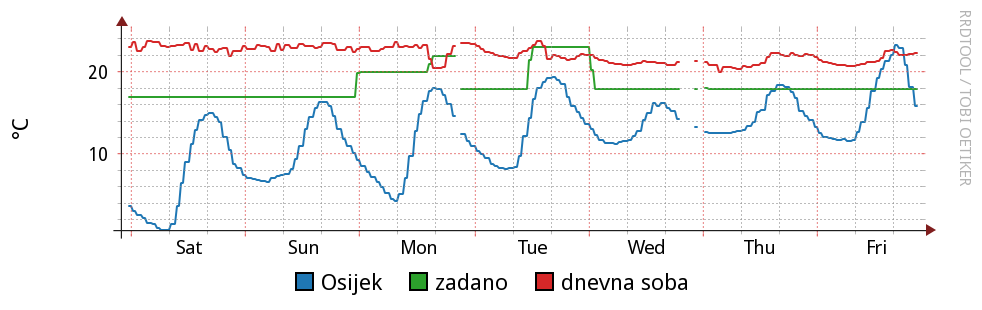
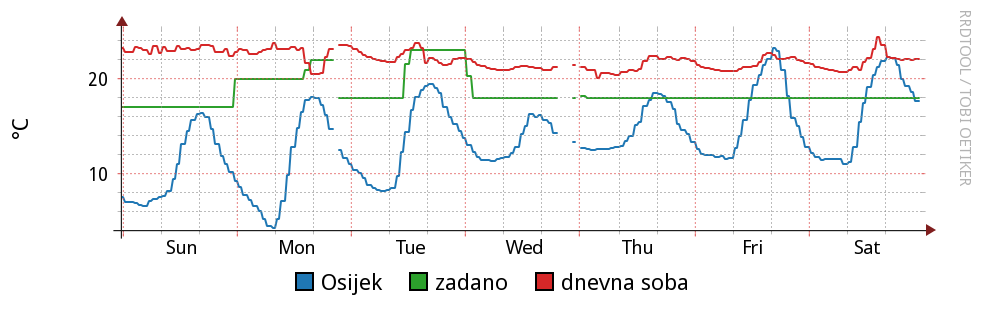
added carousel for viewing also of week/month temp graphs

diff --git a/index.html b/index.html
@@ -27,8 +27,8 @@
     <div class="container fill">
 
       <div id="error" class="alert alert-danger hidden fade">
-        <button type="button" id="error_close" class="close">&times;</button>
-        <strong>Greška!</strong> Za odabranu funkciju potrebno je odobrenje.
+        <button type="button" id="error_close" class="close">&times;</button> <strong>Greška!</strong>
+        Za odabranu funkciju potrebno je odobrenje.
       </div>
 
       <div class="modal fade" id="progress" tabindex="-1" role="dialog" aria-labelledby="progressLabel" aria-hidden="true">
@@ -42,8 +42,28 @@
       </div>
 
       <div id="temperatures_graph">
-        <img src="assets-local/img/temperatures_graph.png" />
+        <div id="myCarousel" class="carousel slide">
+          <div class="carousel-inner">
+            <div id="graph_day" class="item active">
+              <img src="assets-local/img/temperatures_graph.png" title="dnevni pogled"/>
+            </div>
+            <div id="graph_week" class="item">
+              <img src="assets-local/img/temperatures_graph_week.png" title="tjedni pogled"/>
+            </div>
+            <div id="graph_month" class="item">
+              <img src="assets-local/img/temperatures_graph_month.png" title="mjesecni pogled"/>
+            </div>
+          </div>
+
+          <a class="left carousel-control" href="#myCarousel" data-slide="prev">
+            <span class="glyphicon glyphicon-circle-arrow-left"></span>
+          </a>
+          <a class="right carousel-control" href="#myCarousel" data-slide="next">
+            <span class="glyphicon glyphicon-circle-arrow-right"></span>
+          </a>
+        </div>
       </div>
+
       <div class="row">
         <div class="col-md-4">
           Osijek:

diff --git a/assets-local/js/myclient.js b/assets-local/js/myclient.js
@@ -11,8 +11,17 @@ var refreshImage = function(cb) {
   }).done(function(updated) {
     console.log('/refresh_image API response received: ' + updated);
     if (updated) {
-      $("#temperatures_graph").html($("<img />", {
-        src: "assets-local/img/temperatures_graph.png"
+      $("#graph_day").html($("<img />", {
+        src: "assets-local/img/temperatures_graph.png",
+        title: "dnevni pogled"
+      }));
+      $("#graph_week").html($("<img />", {
+        src: "assets-local/img/temperatures_graph_week.png",
+        title: "tjedni pogled"
+      }));
+      $("#graph_month").html($("<img />", {
+        src: "assets-local/img/temperatures_graph_month.png",
+        title: "mjesecni pogled"
       }));
       lastRefreshed = new Date().toLocaleString();
     }
@@ -115,12 +124,20 @@ var isSwitchOn = function() {
 
 
 $(document).ready(function() {
+  $('.carousel').carousel();
+
+  $(".carousel-control").hover(function() {
+    $(this).toggleClass('is-hover');
+  });
+
   updateSwitchState();
 
   refreshData();
 
   $("#temperatures_graph").click(function() {
-    refreshData();
+    if (!$('.carousel-control').hasClass('is-hover')) {
+      refreshData();
+    }
   });
 
   $('#temp_preset_dec').click(function() {

diff --git a/assets-local/css/local.css b/assets-local/css/local.css
@@ -6,6 +6,27 @@ body {
   padding-top: 10px;
 }
 
+.carousel-control {
+  width: 5%;
+  top: 75%;
+  font-size: 30px;
+  opacity: 0.15;
+  filter: alpha(opacity=15);
+}
+.carousel-control.left {
+  color: #000;
+  background-image: none;
+}
+.carousel-control.right {
+  color: #000;
+  background-image: none;
+}
+.carousel-control:hover,
+.carousel-control:focus {
+  opacity: 0.7;
+  filter: alpha(opacity=70);
+}
+
 #temperatures_graph {
   margin: 20px 0;
   background-color: #fff;
